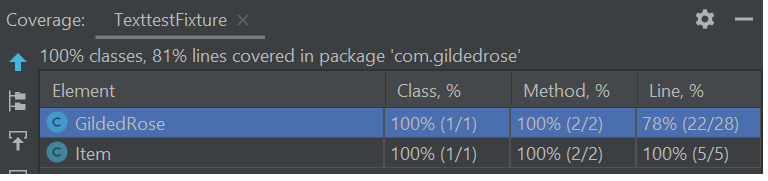
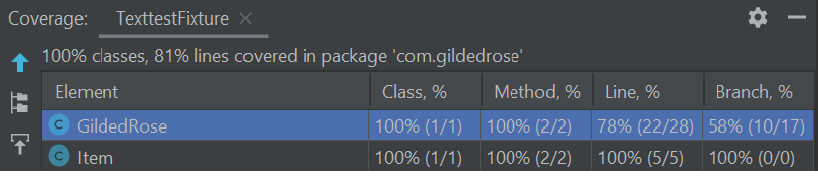
Added branch coverage

diff --git a/README.md b/README.md
@@ -25,7 +25,7 @@ Backstage passes to a TAFKAL80ETC concert, 9, 50
 Backstage passes to a TAFKAL80ETC concert, 4, 50
 Conjured Mana Cake, 2, 5
 ```
-We run test coverage.  IntelliJ reports 78% line coverage in **GildedRose.java**.
+We run test coverage.  IntelliJ reports 78% line coverage and 58% branch coverage in **GildedRose.java**.
 ![](https://github.com/d215steinberg/GildedRose-Java/blob/Lesson%232/images/Coverage-Lesson%232-IntelliJ.png)
 Eclipse reports 70.0% instruction coverage.
 ![](https://github.com/d215steinberg/GildedRose-Java/blob/Lesson%232/images/Coverage-Lesson%232-Eclipse.png)
